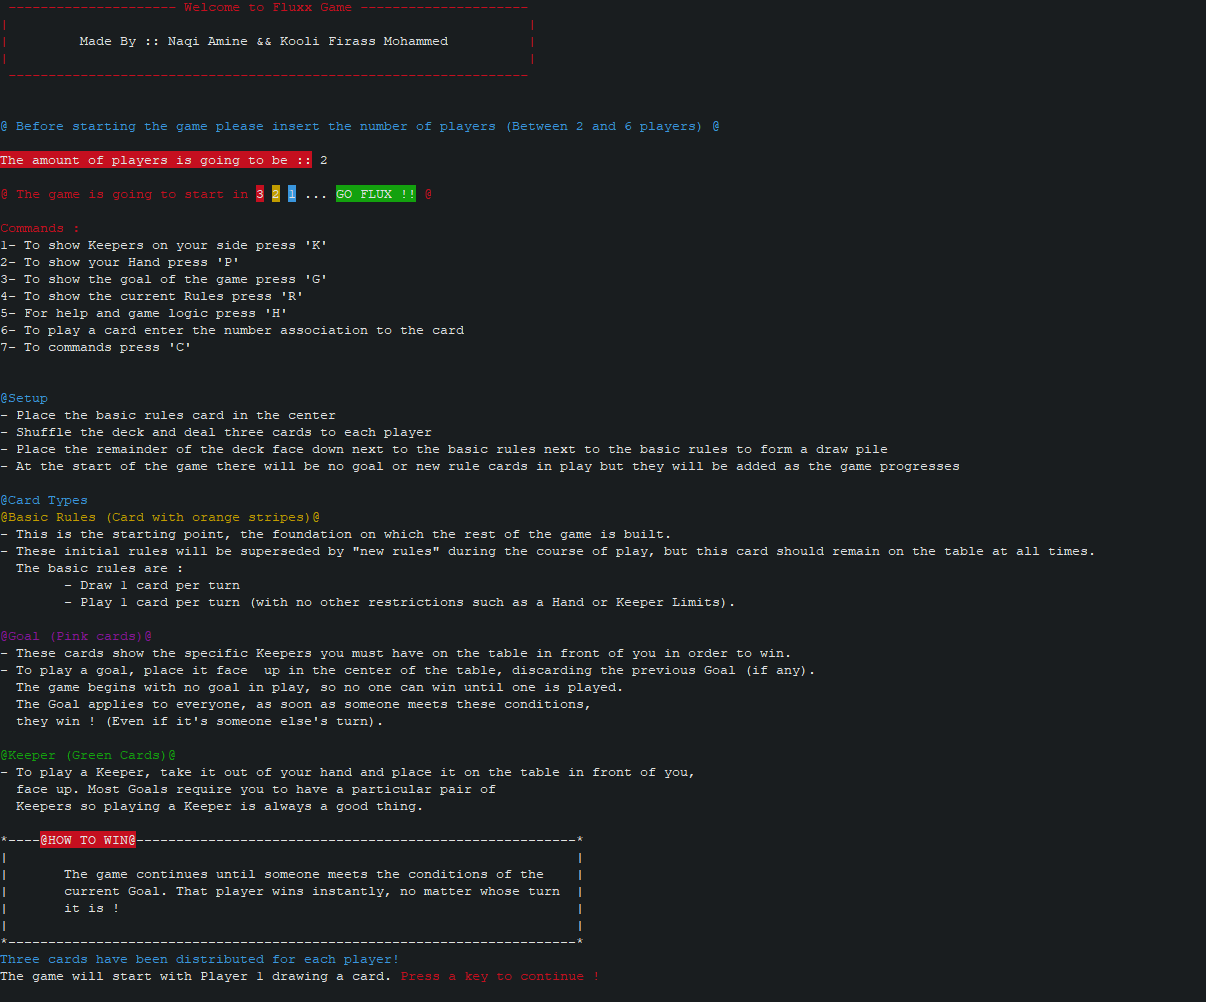
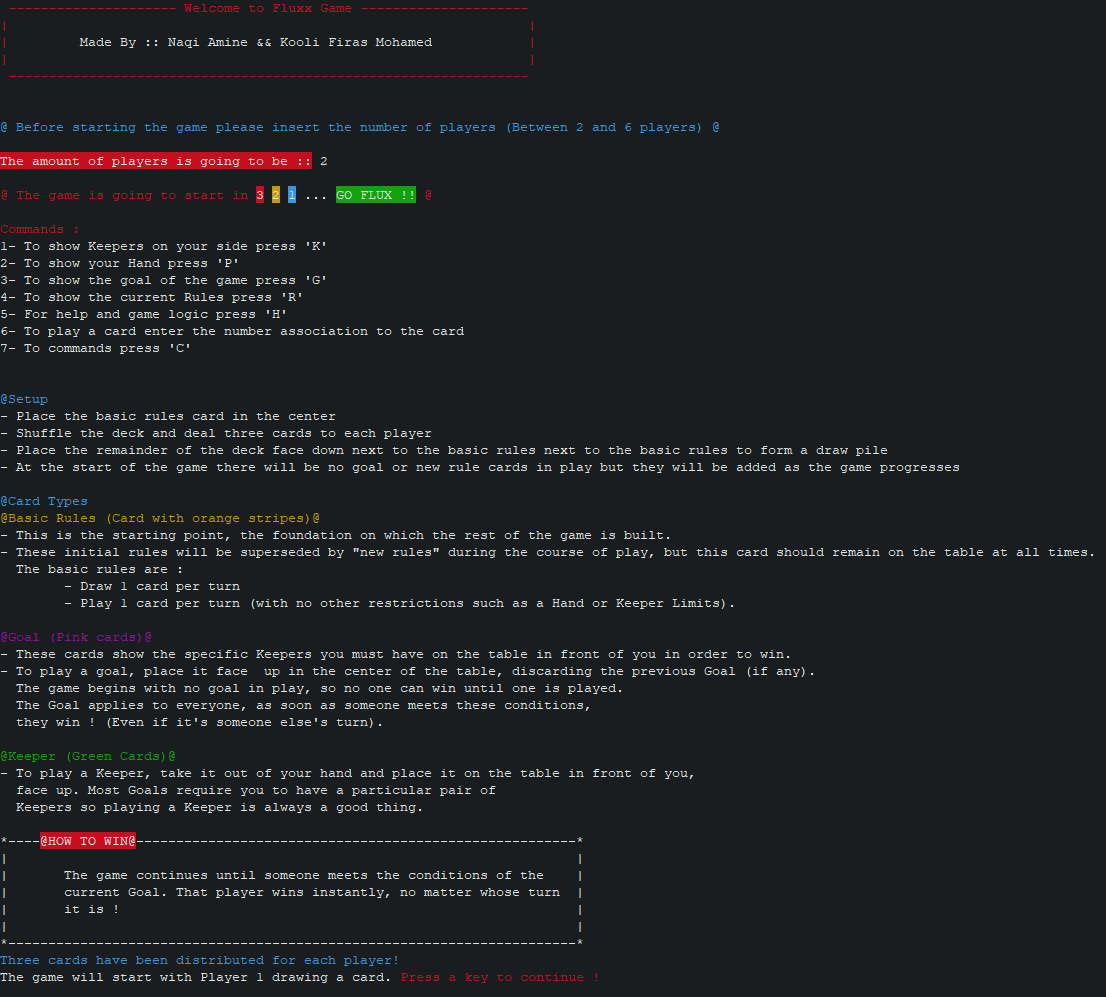
Some minor changes

Changed region(s): [[0.0, 0.1244, 0.9222, 0.995], [0.0615, 0.0, 0.3996, 0.0622], [0.953, 0.5286, 0.9837, 0.5597]]

diff --git a/src/Utility.java b/src/Utility.java
@@ -64,7 +64,7 @@ public class Utility {
 	{
 		System.out.println(Utility.ANSI_RED + " --------------------- Welcome to Fluxx Game --------------------- " );
 		System.out.println("|                                                                 |");
-		System.out.println("|   " + Utility.ANSI_RESET + "      Made By :: Naqi Amine && Kooli Firas Mohammed           " + Utility.ANSI_RED + "|");
+		System.out.println("|   " + Utility.ANSI_RESET + "      Made By :: Naqi Amine && Kooli Firas Mohamed            " + Utility.ANSI_RED + "|");
 		System.out.println("|                                                                 |");
 		System.out.println(" -----------------------------------------------------------------" + Utility.ANSI_RESET);
 		System.out.println("");
